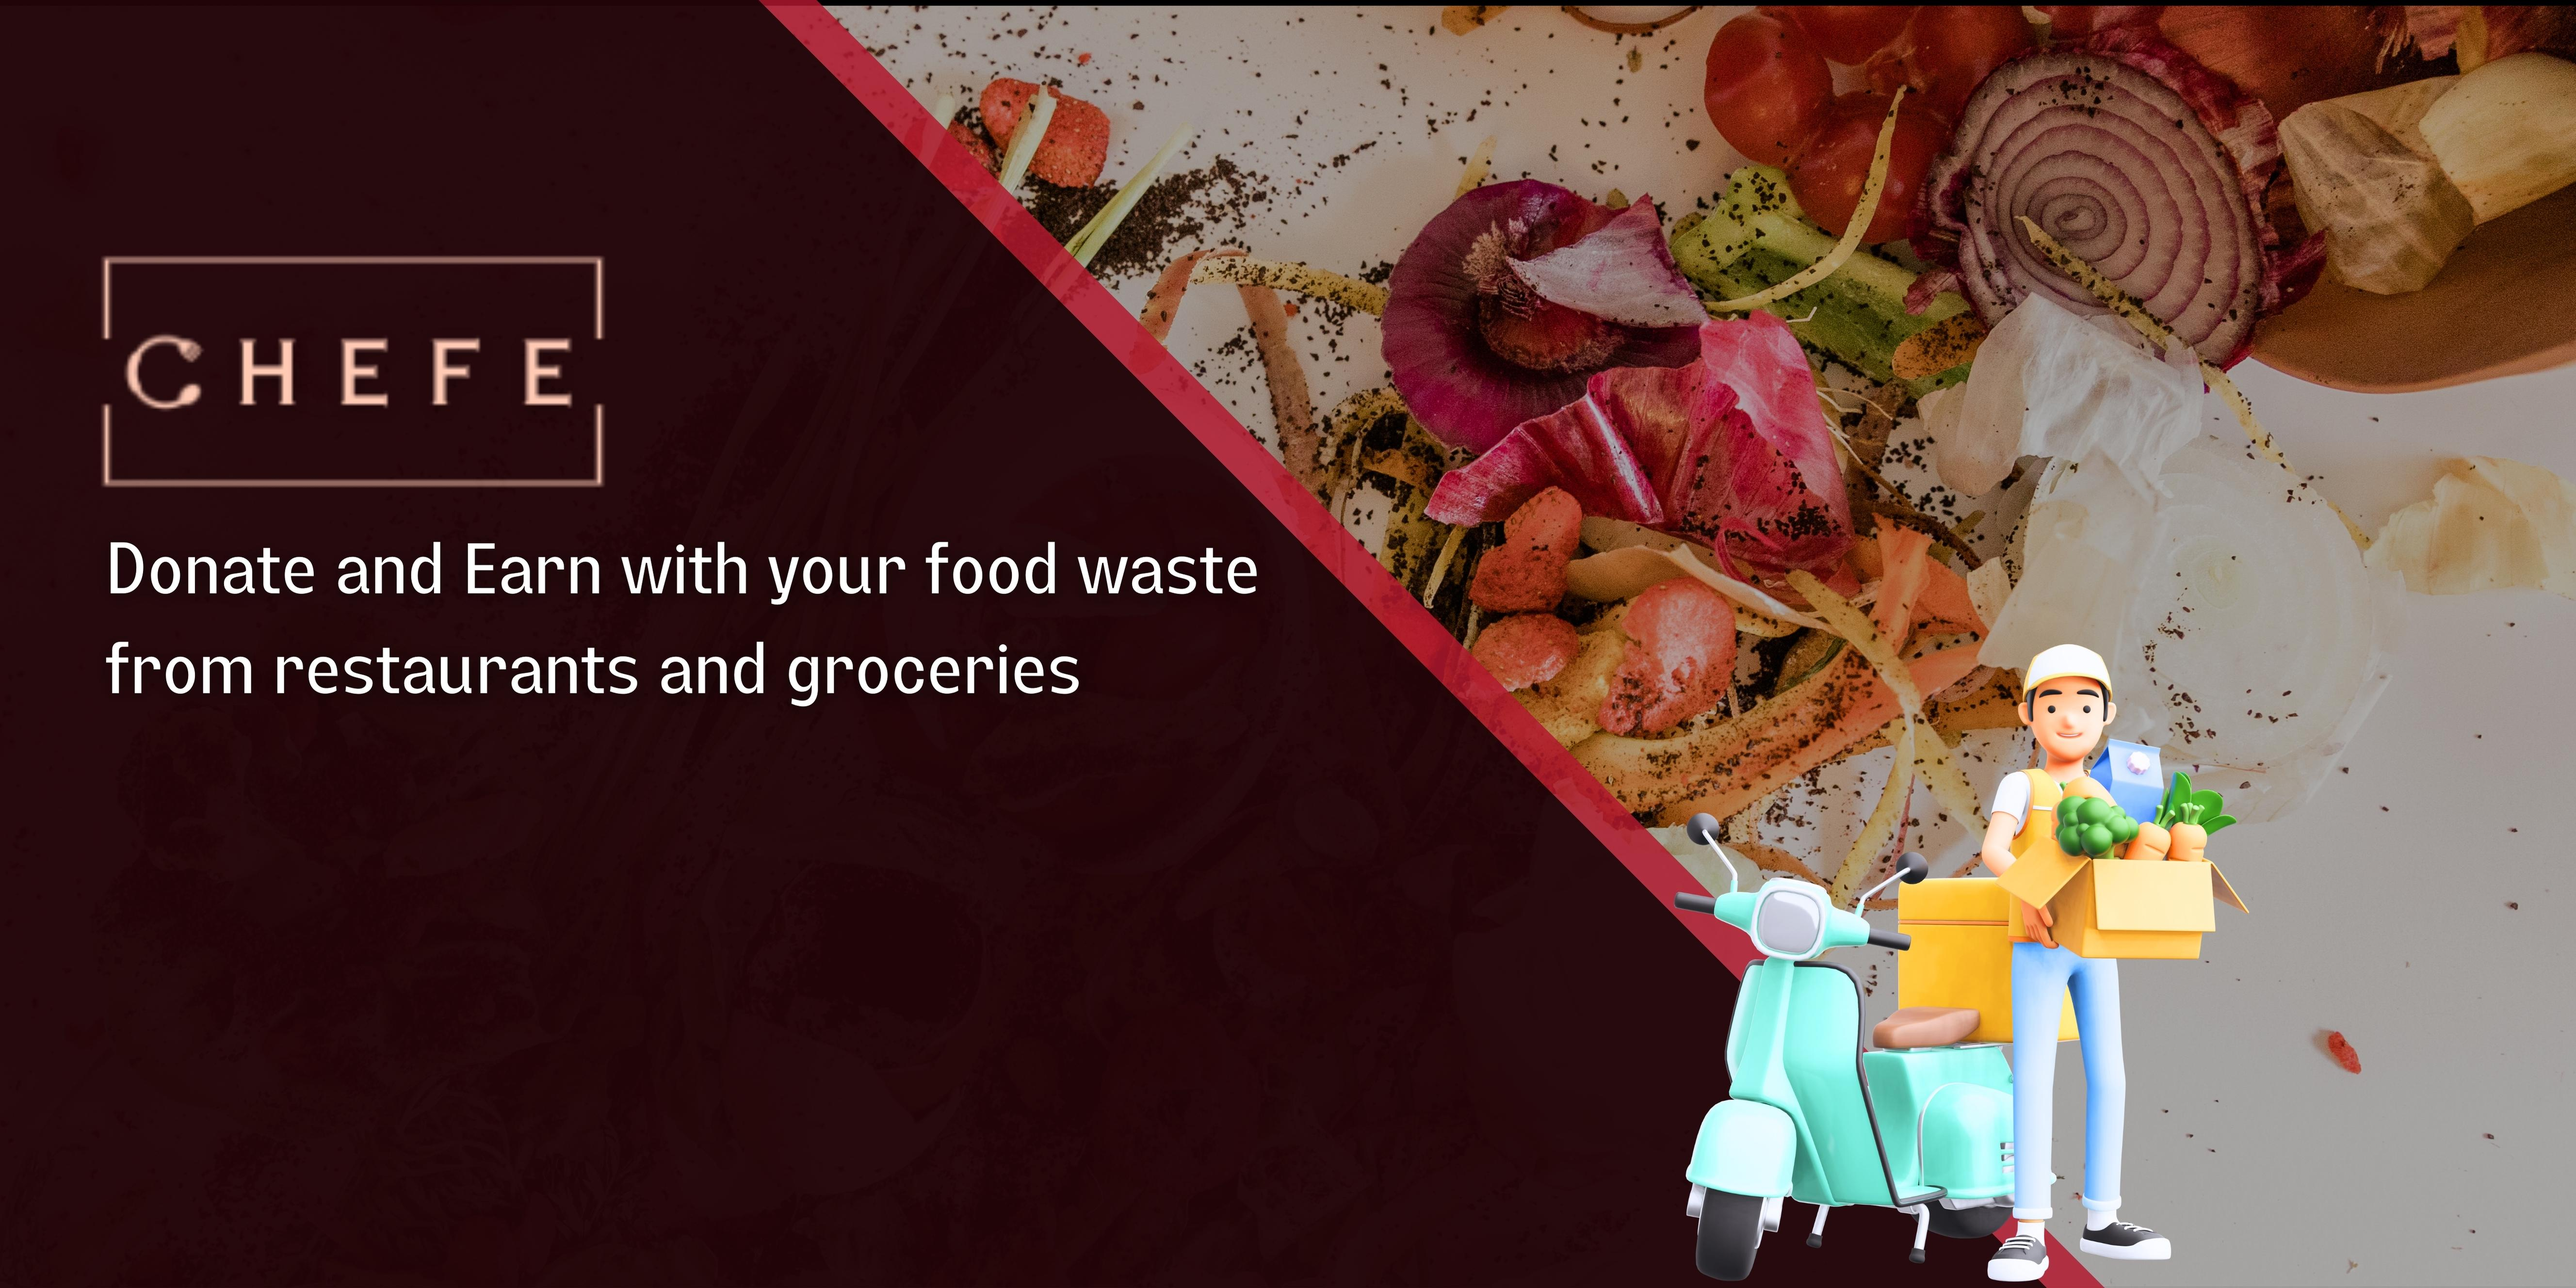
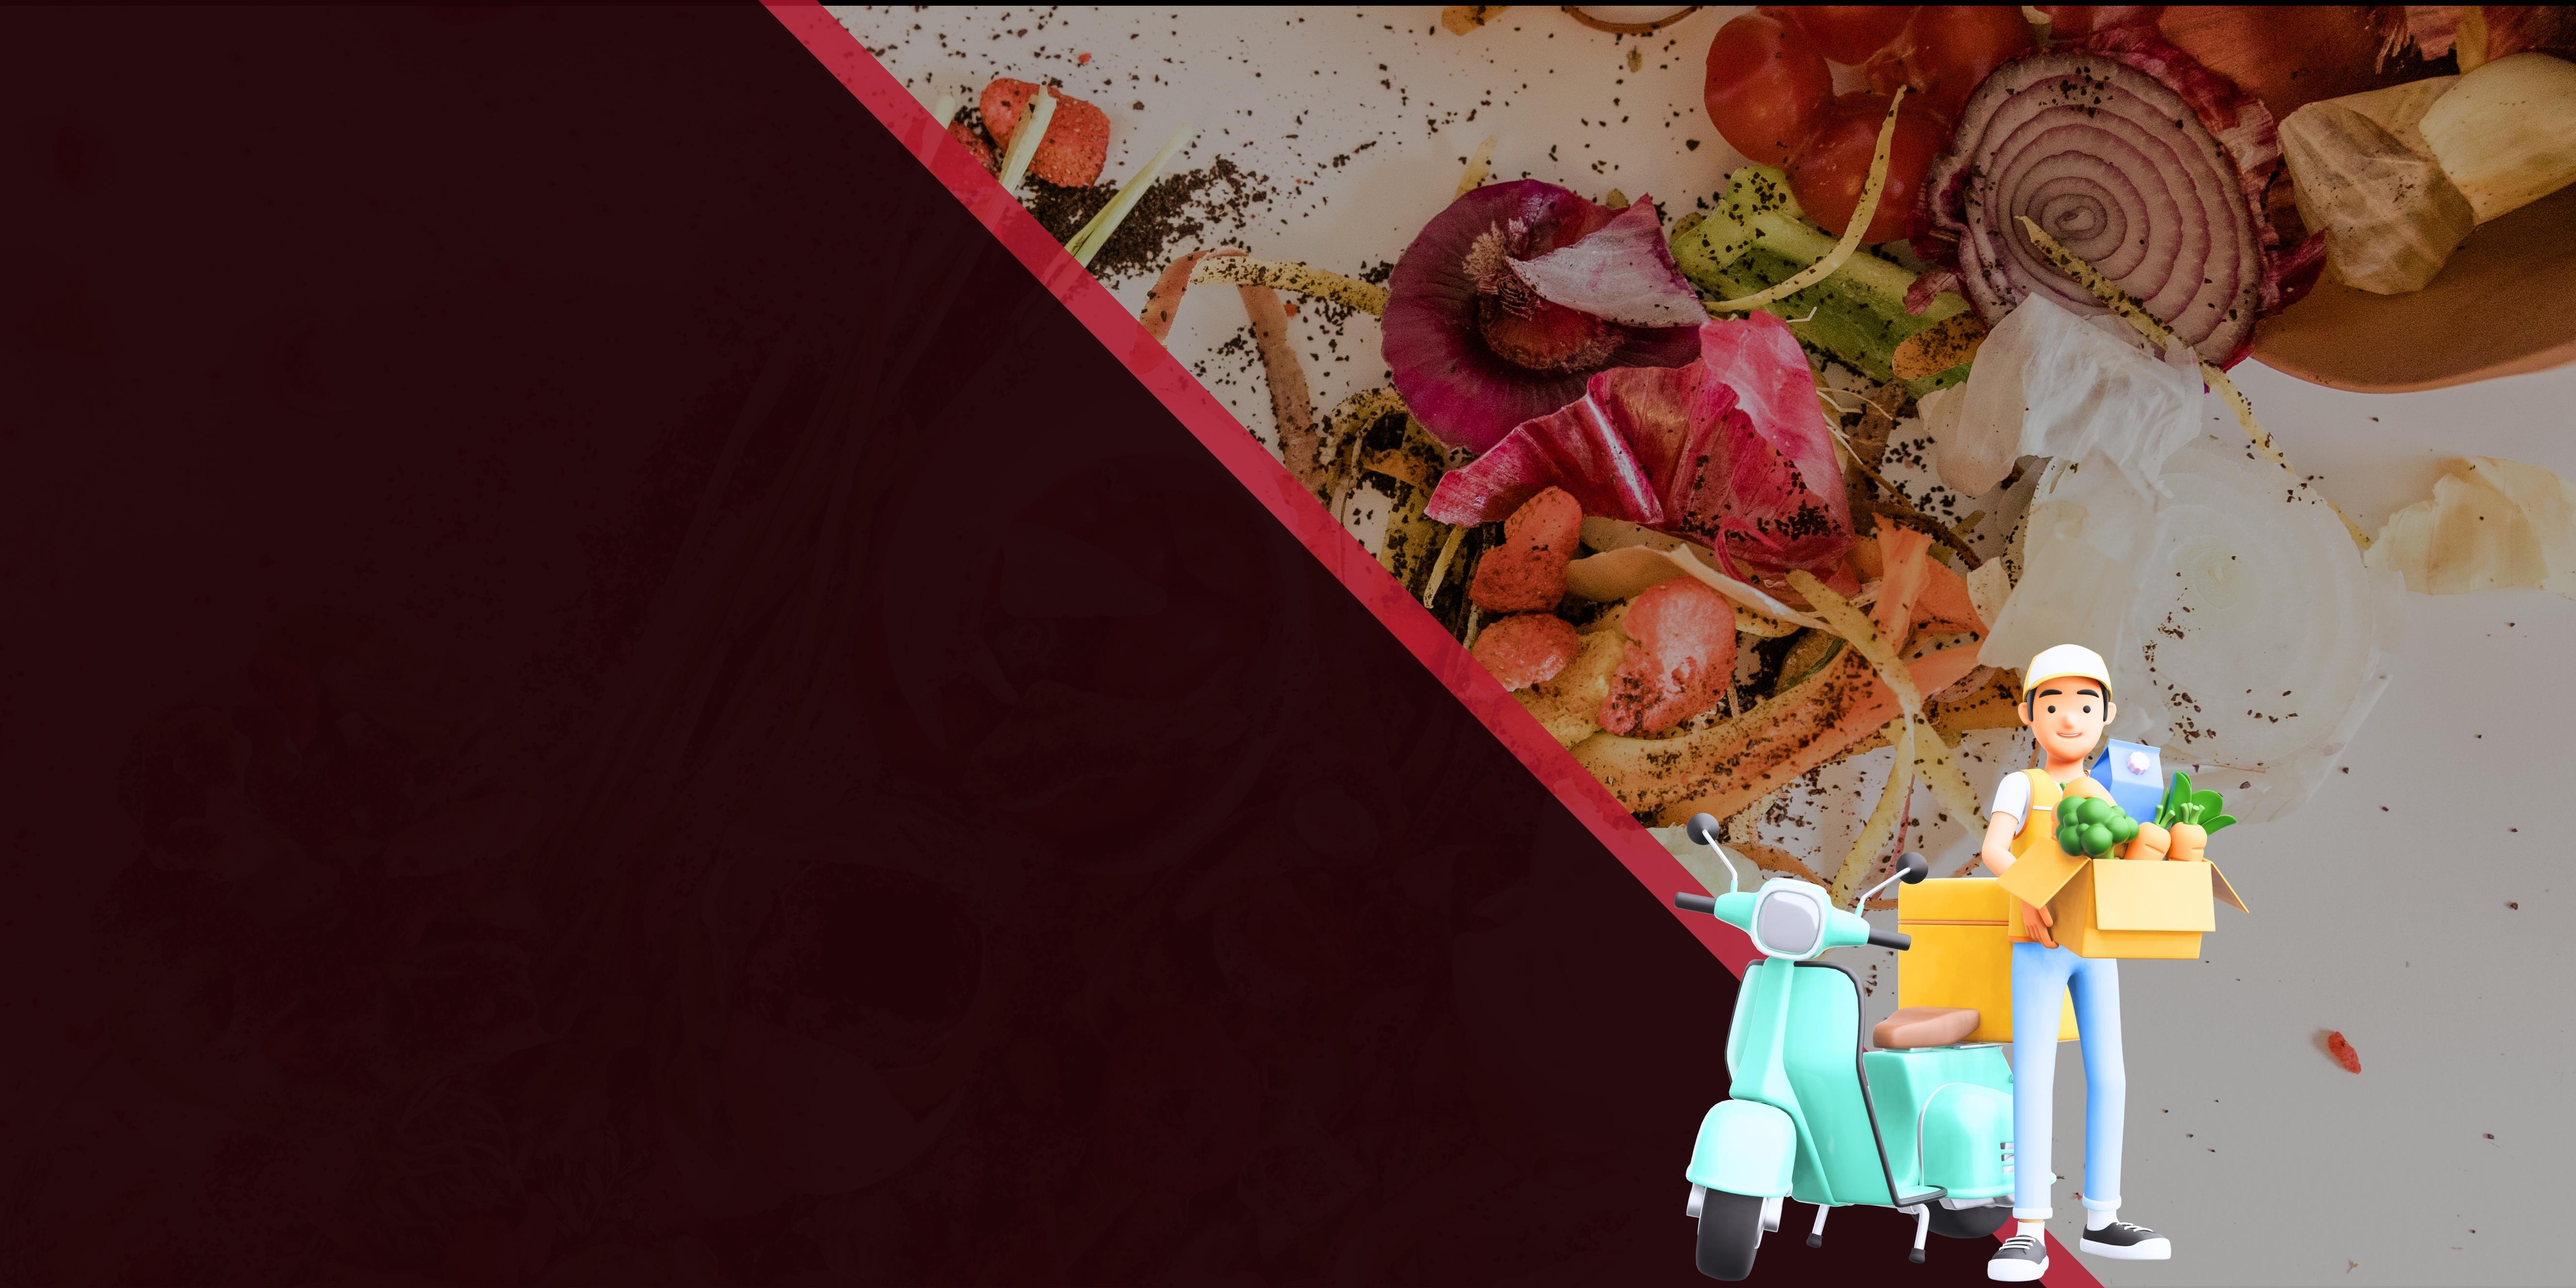
slider change

diff --git a/index.html b/index.html
@@ -108,7 +108,15 @@
             /></a>
             <div class="container">
               <div class="tb-slider-text">
-                
+                <img
+                  src="images/logo.png"
+                  class="img-fluid"
+                  alt="navbar-brand"
+                  style="width: 60%"
+                />
+                <p>
+                  donate and earn with your food and groceries than waste it
+                </p>
                 <a href="https://app-thechefe.onrender.com/" class="btn-primary">Get Started</a>
               </div>
             </div>
@@ -125,8 +133,15 @@
             /></a>
             <div class="container">
               <div class="tb-slider-text">
-                
-                
+                <img
+                  src="images/logo.png"
+                  class="img-fluid"
+                  alt="navbar-brand"
+                  style="width: 60%"
+                />
+                <p>
+                  Easy access to food just like your photos
+                </p>
                 <a href="https://app-thechefe.onrender.com/" class="btn-primary">Get Started</a>
               </div>
             </div>
@@ -142,8 +157,15 @@
             /></a>
             <div class="container">
               <div class="tb-slider-text">
-                
-                
+                <img
+                  src="images/logo.png"
+                  class="img-fluid"
+                  alt="navbar-brand"
+                  style="width: 60%"
+                />
+                <p>
+                  Affordable groceries at your finger tips
+                </p>
                 <a href="https://app-thechefe.onrender.com/" class="btn-primary">Get started!</a>
               </div>
             </div>

diff --git a/css/style.css b/css/style.css
@@ -554,7 +554,6 @@ html {
   -moz-transition: all 400ms ease-in-out;
   -o-transition: all 400ms ease-in-out;
   -ms-transition: all 400ms ease-in-out;
-  margin-top: 200px;
 }
 #tb-slider-cms .tb-slider-images .tb-slider-text a:hover,
 #tb-slider-cms .tb-slider-images .tb-slider-text a:active,
